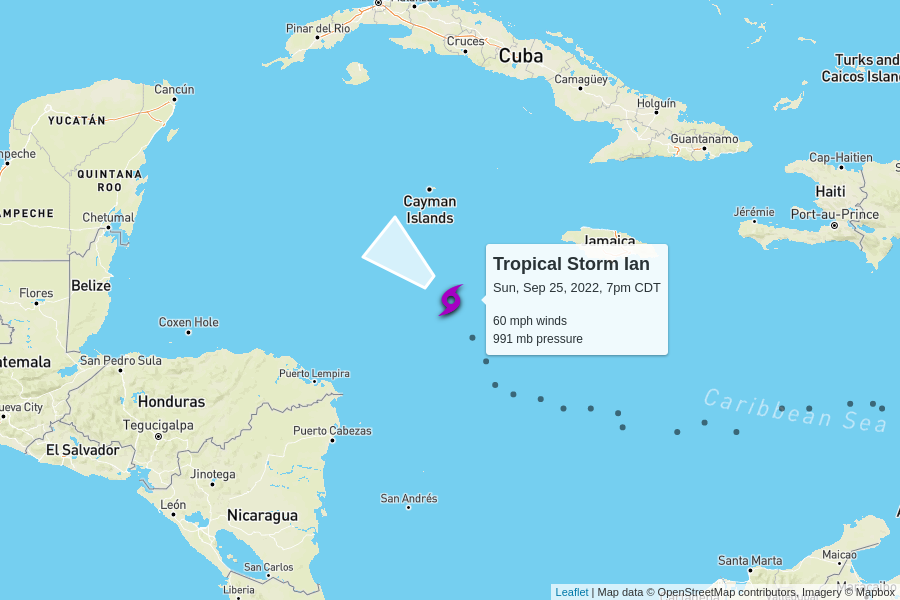
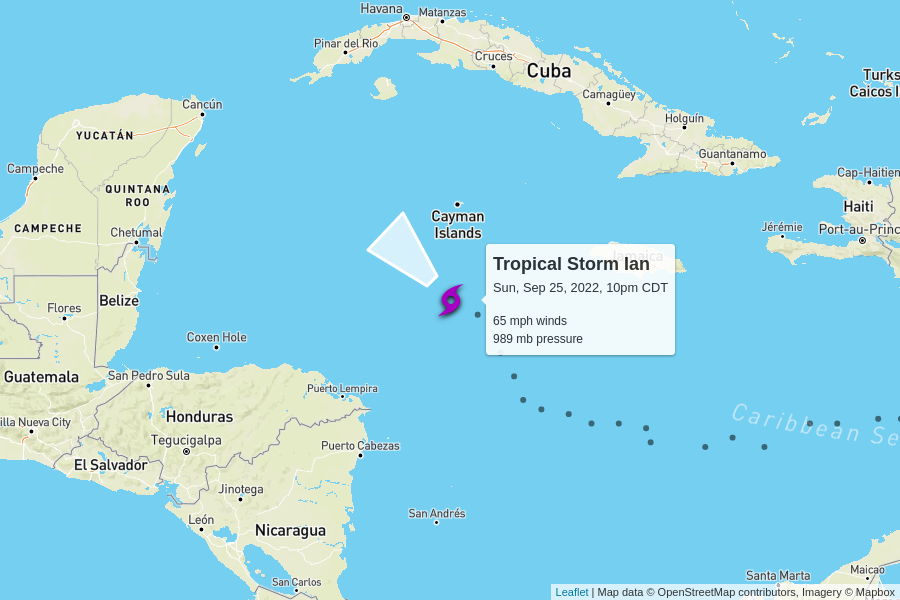
automatic update

diff --git a/docs/index.html b/docs/index.html
@@ -97,39 +97,17 @@
 
     <table>
       <tr>
-        <td colspan="6" class="storm category-0" >
-          <h2>
-            Tropical Storm Ian
-            <p class="updated">last updated <span data-time>2022-09-26T00:00:00.000Z</span></p>
+        <td colspan="6" class="storm category-0" style="cursor:pointer;" onClick="toggle('AL082022')">
+          <h2>🏁 Gaston
           </h2>
         </td>
       </tr>
       
-      <tr>
-        <th class="spacer"></th>
-        <th>wind speed</th>
-        <th>central pressure</th>
-        <th>movement</th>
-        <th>data (CSV)</th>
-        <th>National Hurricane Center</th>
-      </tr>
-      <tr>
-        <td class="spacer"></td>
-        <td>60 mph</td>
-        <td>991 mb</td>
-        <td>
-          12 mph to the northwest
-          <br/>
-          <span style="display: inline-block; font-size: 1.5em; transform: rotate(310deg);">↑</span>
-        </td>
-        <td><a href="https://raw.githubusercontent.com/mgwalker/atlantic-hurricanes/main/data/csv/AL092022.csv">AL092022.csv</a></td>
-        <td><a href="https://www.nhc.noaa.gov/archive/2022/IAN.shtml?">NHC advisories</a></td>
-      </tr>
-      <tr id="storm_AL092022" >
+      <tr id="storm_AL082022" style="display:none;">
         <td class="spacer">
         <td colspan="5">
           <figure>
-            <img src="AL092022.png">
+            <img src="AL082022.png">
             <figcaption>
               Map data &copy; <a href="https://www.openstreetmap.org/copyright">OpenStreetMap</a> contributors,
               Imagery &copy; <a href="https://www.mapbox.com/">Mapbox</a> |
@@ -143,8 +121,8 @@
       <tr>
         <td colspan="6" class="storm category-0" >
           <h2>
-            Tropical Storm Gaston
-            <p class="updated">last updated <span data-time>2022-09-25T21:00:00.000Z</span></p>
+            Tropical Storm Ian
+            <p class="updated">last updated <span data-time>2022-09-26T03:00:00.000Z</span></p>
           </h2>
         </td>
       </tr>
@@ -159,21 +137,21 @@
       </tr>
       <tr>
         <td class="spacer"></td>
-        <td>45 mph</td>
-        <td>1000 mb</td>
+        <td>65 mph</td>
+        <td>989 mb</td>
         <td>
-          10 mph to the west
+          13 mph to the northwest
           <br/>
-          <span style="display: inline-block; font-size: 1.5em; transform: rotate(260deg);">↑</span>
+          <span style="display: inline-block; font-size: 1.5em; transform: rotate(315deg);">↑</span>
         </td>
-        <td><a href="https://raw.githubusercontent.com/mgwalker/atlantic-hurricanes/main/data/csv/AL082022.csv">AL082022.csv</a></td>
-        <td><a href="https://www.nhc.noaa.gov/archive/2022/GASTON.shtml?">NHC advisories</a></td>
+        <td><a href="https://raw.githubusercontent.com/mgwalker/atlantic-hurricanes/main/data/csv/AL092022.csv">AL092022.csv</a></td>
+        <td><a href="https://www.nhc.noaa.gov/archive/2022/IAN.shtml?">NHC advisories</a></td>
       </tr>
-      <tr id="storm_AL082022" >
+      <tr id="storm_AL092022" >
         <td class="spacer">
         <td colspan="5">
           <figure>
-            <img src="AL082022.png">
+            <img src="AL092022.png">
             <figcaption>
               Map data &copy; <a href="https://www.openstreetmap.org/copyright">OpenStreetMap</a> contributors,
               Imagery &copy; <a href="https://www.mapbox.com/">Mapbox</a> |
